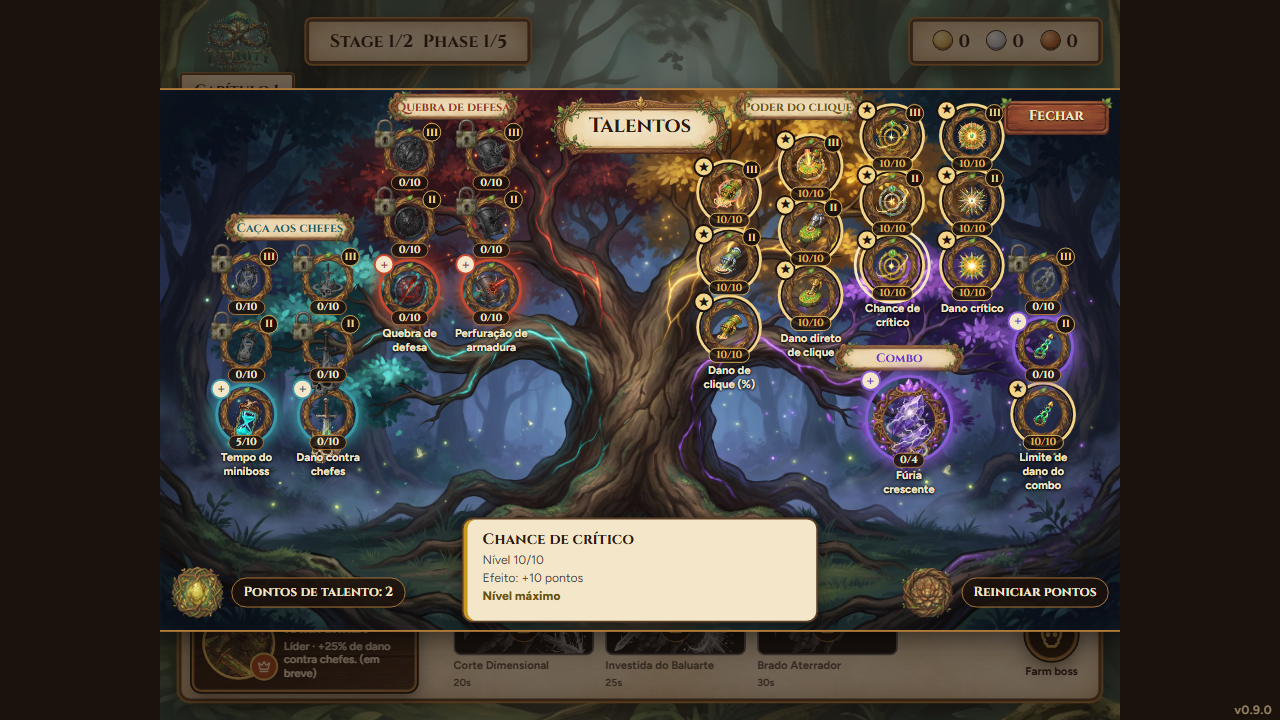
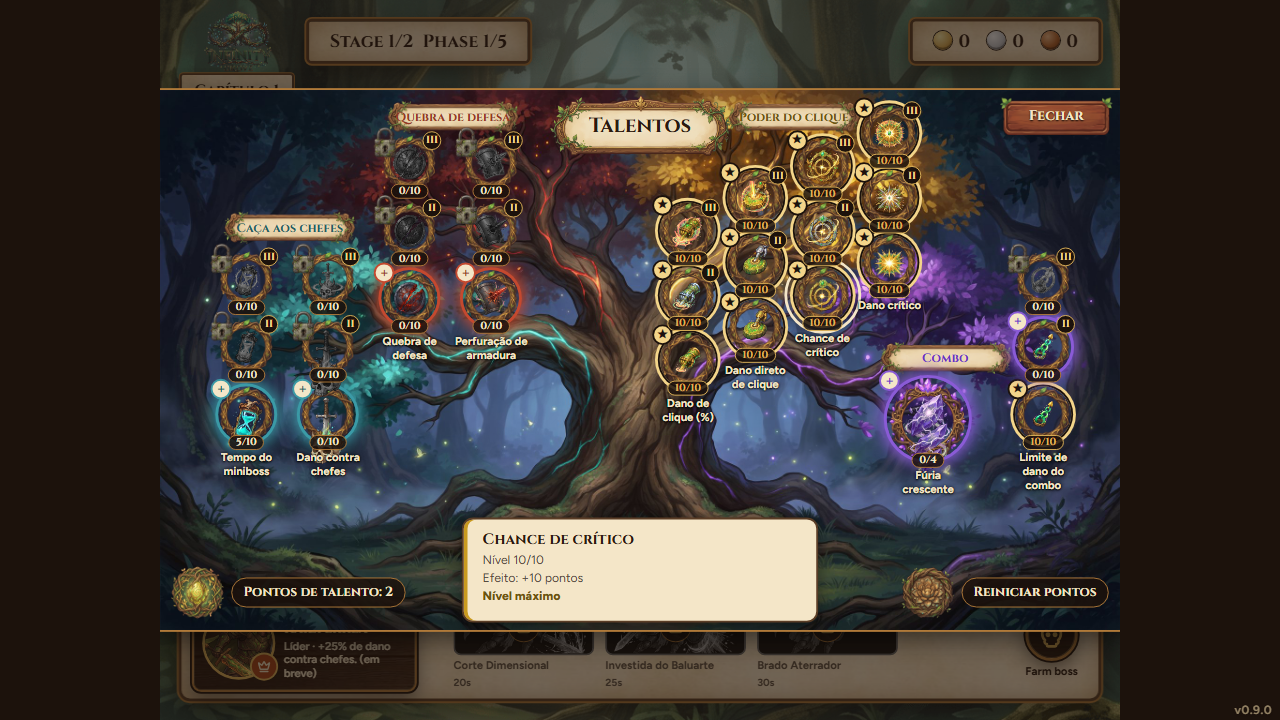
fix(game): apply the round 3 review findings to the talent tree layout
POWER columns move onto the gold foliage at x 55, 62, 69 and 76 (the
review asked for 56, 62, 68 and 74: at 6 % spacing a grade 1 caption of
80 px touches the next column's node, so the spacing is 7 %), grade 1 at
y 50, 44, 38 and 32 with a step of 12, so no grade 3 node reaches Fechar.
Banners: POWER (66, 5), BREAK y 5 (its grade 1 row drops to 38.5 to keep
the grade 3 nodes under it), COMBO (81.8, 49.7) instead of x 85, which
would cover the COMBO column's grade 2 node. Fúria crescente at x 80.

Re-pinned: talentTreeLayout.test.js (rows, columns, banners, Fúria; new
checks for caption-node, caption-caption, Fechar clearance and banners),
talentsView.test.js (CLICK_DAMAGE, COMBO_FURY, POWER banner and three
revealTalent values, the keep-scroll case now at scroll 700, 400),
e2e "draws 28 nodes" (CLICK_DAMAGE at 563.2 x 288 px) and the e2e phone
"keeps the scroll" test (scroll 700, 400). Regenerates the 11-real-art
shots. Adds T32.

Changed region(s): [[0.5, 0.1222, 0.8125, 0.7028], [0.2812, 0.1222, 0.4375, 0.5194]]

diff --git a/game/src/adapters/phaser/views/talentTreeLayout.test.js b/game/src/adapters/phaser/views/talentTreeLayout.test.js
@@ -13,7 +13,7 @@ describe('NODE_POSITIONS', () => {
         expect(IDS).toHaveLength(28);
     });
 
-    it('stacks each chain in one column, grade 1 lowest, a grade every 12.5 % of the height (12 % in the last two POWER columns)', () => {
+    it('stacks each chain in one column, grade 1 lowest, a grade every 12.5 % of the height (12 % in the four POWER columns, a staircase of grade 1 at 50, 44, 38 and 32)', () => {
         GRADED.forEach((id) => {
             expect(NODE_POSITIONS[`${id}_G2`].x).toBe(NODE_POSITIONS[id].x);
             expect(NODE_POSITIONS[`${id}_G3`].x).toBe(NODE_POSITIONS[id].x);
@@ -23,24 +23,24 @@ describe('NODE_POSITIONS', () => {
 
         expect(rows('MINIBOSS_TIME')).toEqual([ 60, 47.5, 35 ]);
         expect(rows('BOSS_DAMAGE')).toEqual([ 60, 47.5, 35 ]);
-        expect(rows('PHYSICAL_BREAK')).toEqual([ 37, 24.5, 12 ]);
-        expect(rows('ARMOR_PIERCE')).toEqual([ 37, 24.5, 12 ]);
-        expect(rows('CLICK_DAMAGE')).toEqual([ 44, 31.5, 19 ]);
-        expect(rows('CLICK_FLAT_DAMAGE')).toEqual([ 38, 26, 14 ]);
-        expect(rows('CRIT_CHANCE')).toEqual([ 32.5, 20.5, 8.5 ]);
-        expect(rows('CRIT_DAMAGE')).toEqual([ 32.5, 20.5, 8.5 ]);
+        expect(rows('PHYSICAL_BREAK')).toEqual([ 38.5, 26, 13.5 ]);
+        expect(rows('ARMOR_PIERCE')).toEqual([ 38.5, 26, 13.5 ]);
+        expect(rows('CLICK_DAMAGE')).toEqual([ 50, 38, 26 ]);
+        expect(rows('CLICK_FLAT_DAMAGE')).toEqual([ 44, 32, 20 ]);
+        expect(rows('CRIT_CHANCE')).toEqual([ 38, 26, 14 ]);
+        expect(rows('CRIT_DAMAGE')).toEqual([ 32, 20, 8 ]);
         expect(rows('COMBO')).toEqual([ 60, 47.5, 35 ]);
     });
 
-    it('puts every branch over its own painted foliage: columns x 9 and 17.5 (TIME), 26 and 34.5 (BREAK), 59.3 to 84.6 (POWER), 92 (COMBO)', () => {
+    it('puts every branch over its own painted foliage: columns x 9 and 17.5 (TIME), 26 and 34.5 (BREAK), 55 to 76 (POWER), 92 (COMBO)', () => {
         expect([ 'MINIBOSS_TIME', 'BOSS_DAMAGE' ].map((id) => NODE_POSITIONS[id].x)).toEqual([ 9, 17.5 ]);
         expect([ 'PHYSICAL_BREAK', 'ARMOR_PIERCE' ].map((id) => NODE_POSITIONS[id].x)).toEqual([ 26, 34.5 ]);
-        expect([ 'CLICK_DAMAGE', 'CLICK_FLAT_DAMAGE', 'CRIT_CHANCE', 'CRIT_DAMAGE' ].map((id) => NODE_POSITIONS[id].x)).toEqual([ 59.3, 67.8, 76.3, 84.6 ]);
+        expect([ 'CLICK_DAMAGE', 'CLICK_FLAT_DAMAGE', 'CRIT_CHANCE', 'CRIT_DAMAGE' ].map((id) => NODE_POSITIONS[id].x)).toEqual([ 55, 62, 69, 76 ]);
         expect(NODE_POSITIONS.COMBO.x).toBe(92);
     });
 
-    it('puts Fúria crescente on the violet foliage at (78, 61) and marks it large', () => {
-        expect(NODE_POSITIONS.COMBO_FURY).toEqual({ x: 78, y: 61 });
+    it('puts Fúria crescente on the violet foliage at (80, 61) and marks it large', () => {
+        expect(NODE_POSITIONS.COMBO_FURY).toEqual({ x: 80, y: 61 });
         expect(LARGE_NODES).toEqual([ 'COMBO_FURY' ]);
     });
 
@@ -48,7 +48,7 @@ describe('NODE_POSITIONS', () => {
         nodes.forEach(([ , { x, y } ]) => {
             expect(x).toBeGreaterThanOrEqual(5);
             expect(x).toBeLessThanOrEqual(95);
-            expect(y).toBeGreaterThanOrEqual(8.5);
+            expect(y).toBeGreaterThanOrEqual(8);
             expect(y).toBeLessThanOrEqual(61);
         });
 
@@ -78,6 +78,45 @@ describe('NODE_POSITIONS', () => {
         expect(touching).toEqual([]);
     });
 
+    it('keeps every grade 1 caption (80 px wide, two lines of 15 px, three for Limite de dano do combo) off every other node and caption, and every node 12 px from Fechar', () => {
+        const px = ({ x, y }) => ({ x: x / 100 * TREE_SIZE.width, y: y / 100 * TREE_SIZE.height });
+        const around = ([ id, position ], half) => ({ id, left: px(position).x - half, right: px(position).x + half, top: px(position).y - half, bottom: px(position).y + half });
+        const hit = (a, b) => a.left < b.right && b.left < a.right && a.top < b.bottom && b.top < a.bottom;
+        const half = (id) => (LARGE_NODES.includes(id) ? LARGE_NODE_HALF : NODE_HALF);
+        const boxes = nodes.map((node) => around(node, half(node[0])));
+        const captions = nodes.filter(([ id ]) => !/_G[23]$/.test(id)).map(([ id, position ]) => {
+            const centre = px(position);
+
+            return { id, left: centre.x - 40, right: centre.x + 40, top: centre.y + half(id) + 9, bottom: centre.y + half(id) + 9 + (id === 'COMBO' ? 45 : 30) };
+        });
+        const fechar = { left: 0.88 * TREE_SIZE.width - 12, right: TREE_SIZE.width, top: 0, bottom: 46 + 12 };
+
+        expect(captions.flatMap((caption) => boxes.filter((box) => box.id !== caption.id && hit(caption, box)).map((box) => `${caption.id} over ${box.id}`))).toEqual([]);
+        expect(captions.flatMap((a, i) => captions.slice(i + 1).filter((b) => hit(a, b)).map((b) => `${a.id} over ${b.id}`))).toEqual([]);
+        expect(boxes.filter((box) => hit(box, fechar)).map(({ id }) => id)).toEqual([]);
+    });
+
+    it('keeps the four banners (140 x 34 px) off every node, every caption and the plaque, and inside the board', () => {
+        const banners = Object.entries(BANNER_POSITIONS).map(([ id, { x, y } ]) => ({
+            id, left: x / 100 * TREE_SIZE.width - 70, right: x / 100 * TREE_SIZE.width + 70, top: y / 100 * TREE_SIZE.height - 17, bottom: y / 100 * TREE_SIZE.height + 17
+        }));
+        const hit = (a, b) => a.left < b.right && b.left < a.right && a.top < b.bottom && b.top < a.bottom;
+        const plaque = { left: 0.41 * TREE_SIZE.width, right: 0.59 * TREE_SIZE.width, top: 0, bottom: 0.13 * TREE_SIZE.height };
+        const boxes = nodes.map(([ id, { x, y } ]) => {
+            const half = LARGE_NODES.includes(id) ? LARGE_NODE_HALF : NODE_HALF;
+            const [ cx, cy ] = [ x / 100 * TREE_SIZE.width, y / 100 * TREE_SIZE.height ];
+
+            return { id, left: cx - half, right: cx + half, top: cy - half, bottom: cy + half, caption: { left: cx - 40, right: cx + 40, top: cy + half + 9, bottom: cy + half + 54 } };
+        });
+
+        banners.forEach((banner) => {
+            expect(banner.left).toBeGreaterThanOrEqual(0);
+            expect(banner.right).toBeLessThanOrEqual(TREE_SIZE.width);
+            expect(hit(banner, plaque)).toBe(false);
+            expect(boxes.filter((box) => hit(banner, box) || (!/_G[23]$/.test(box.id) && hit(banner, box.caption))).map(({ id }) => `${banner.id} over ${id}`)).toEqual([]);
+        });
+    });
+
     it('keeps the nodes of one row at least 8 % apart (a caption is 80 px, 7.8 %)', () => {
         nodes.forEach(([ idA, a ]) => nodes.forEach(([ idB, b ]) => {
             if (idA !== idB && a.y === b.y)
@@ -92,7 +131,7 @@ describe('banners, glows and veins', () => {
     it('places one banner per branch and one glow per branch', () => {
         expect(Object.keys(BANNER_POSITIONS)).toEqual([ 'TIME', 'BREAK', 'POWER', 'COMBO' ]);
         expect(Object.keys(BRANCH_GLOWS)).toEqual([ 'TIME', 'BREAK', 'POWER', 'COMBO' ]);
-        expect(BANNER_POSITIONS).toEqual({ TIME: { x: 13.5, y: 25.5 }, BREAK: { x: 30.5, y: 3.2 }, POWER: { x: 66.4, y: 3.2 }, COMBO: { x: 77, y: 49.7 } });
+        expect(BANNER_POSITIONS).toEqual({ TIME: { x: 13.5, y: 25.5 }, BREAK: { x: 30.5, y: 5 }, POWER: { x: 66, y: 5 }, COMBO: { x: 81.8, y: 49.7 } });
         expect(BRANCH_GLOWS).toEqual({
             TIME: { x: 25, y: 50, rx: 22, ry: 24 },
             BREAK: { x: 34, y: 22, rx: 18, ry: 25 },
@@ -110,6 +149,6 @@ describe('banners, glows and veins', () => {
         const combo = VEINS.at(-1);
 
         expect(combo).toHaveLength(5);
-        expect(combo[1]).toEqual({ x: 78, y: 61 });
+        expect(combo[1]).toEqual({ x: 80, y: 61 });
     });
 });

diff --git a/game/src/adapters/phaser/views/talentsView.test.js b/game/src/adapters/phaser/views/talentsView.test.js
@@ -62,8 +62,8 @@ describe('the nodes', () => {
     it('centres each node on its map coordinates', () => {
         const screen = show();
 
-        expect([ find(screen, 'talent-CLICK_DAMAGE').style.left, find(screen, 'talent-CLICK_DAMAGE').style.top ]).toEqual([ '59.3%', '44%' ]);
-        expect([ find(screen, 'talent-COMBO_FURY').style.left, find(screen, 'talent-COMBO_FURY').style.top ]).toEqual([ '78%', '61%' ]);
+        expect([ find(screen, 'talent-CLICK_DAMAGE').style.left, find(screen, 'talent-CLICK_DAMAGE').style.top ]).toEqual([ '55%', '50%' ]);
+        expect([ find(screen, 'talent-COMBO_FURY').style.left, find(screen, 'talent-COMBO_FURY').style.top ]).toEqual([ '80%', '61%' ]);
         expect([ find(screen, 'talent-MINIBOSS_TIME').style.left, find(screen, 'talent-MINIBOSS_TIME').style.top ]).toEqual([ '9%', '60%' ]);
     });
 
@@ -228,7 +228,7 @@ describe('the board', () => {
         const screen = show();
 
         expect([ ...screen.querySelectorAll('.talent-branch-title') ].map((node) => node.textContent)).toEqual([ 'Caça aos chefes', 'Quebra de defesa', 'Poder do clique', 'Combo' ]);
-        expect([ find(screen, 'talent-branch-POWER').style.left, find(screen, 'talent-branch-POWER').style.top ]).toEqual([ '66.4%', '3.2%' ]);
+        expect([ find(screen, 'talent-branch-POWER').style.left, find(screen, 'talent-branch-POWER').style.top ]).toEqual([ '66%', '5%' ]);
     });
 
     it('gives each lit layer its ellipse and its opacity', () => {
@@ -363,8 +363,8 @@ describe('revealTalent', () => {
 
         revealTalent(screen, 'COMBO_FURY');
 
-        //  Its centre (78 %, 61 %) is at (1597.44, 702.72) of the board: the right edge keeps 88 + 12 px, the bottom keeps 88 px of node and 108 px of caption above the card
-        expect(scroll.scrollLeft).toBeCloseTo(1597.44 - (1024 - 88 - 12), 5);
+        //  Its centre (80 %, 61 %) is at (1638.4, 702.72) of the board: the right edge keeps 88 + 12 px, the bottom keeps 88 px of node and 108 px of caption above the card
+        expect(scroll.scrollLeft).toBeCloseTo(1638.4 - (1024 - 88 - 12), 5);
         expect(scroll.scrollTop).toBeCloseTo(702.72 - (576 - 136 - 88 - 108), 5);
     });
 
@@ -373,9 +373,9 @@ describe('revealTalent', () => {
 
         revealTalent(screen, 'CLICK_DAMAGE_G3');
 
-        //  (59.3 %, 19 %) is at (1214.464, 218.88): 76 + 60 px under the top edge
+        //  (55 %, 26 %) is at (1126.4, 299.52): 76 + 60 px under the top edge
         expect(scroll.scrollLeft).toBe(512);
-        expect(scroll.scrollTop).toBeCloseTo(218.88 - (76 + 60), 5);
+        expect(scroll.scrollTop).toBeCloseTo(299.52 - (76 + 60), 5);
 
         const low = phone(0, 0);
 
@@ -387,11 +387,11 @@ describe('revealTalent', () => {
     });
 
     it('leaves the scroll alone when the node is already in the free area', () => {
-        const { screen, scroll } = phone(700, 288);
+        const { screen, scroll } = phone(700, 400);
 
         revealTalent(screen, 'CLICK_DAMAGE');
 
-        expect([ scroll.scrollLeft, scroll.scrollTop ]).toEqual([ 700, 288 ]);
+        expect([ scroll.scrollLeft, scroll.scrollTop ]).toEqual([ 700, 400 ]);
     });
 
     it('does nothing on a board that does not scroll, for a talent without a node or without a screen', () => {

diff --git a/game/src/adapters/phaser/views/talentTreeLayout.js b/game/src/adapters/phaser/views/talentTreeLayout.js
@@ -3,12 +3,12 @@ export const TREE_SIZE = { width: 1024, height: 576 };
 
 export const TREE_IMAGE = 'assets/talent-tree-bg.jpg';
 
-//  Grade 1 lowest, one grade every 12.5 % of the height (12 % in the last POWER column, which has less crown above it): `rise` gives the three rows of a column from its grade 1 row
+//  Grade 1 lowest, one grade every 12.5 % of the height (12 % in the four POWER columns, a staircase that climbs to the right with the crown): `rise` gives the three rows of a column from its grade 1 row
 const rise = (grade1, step = 12.5) => ({ 1: grade1, 2: grade1 - step, 3: grade1 - 2 * step });
 const CHAINS = [
     [ 'MINIBOSS_TIME', 9, rise(60) ], [ 'BOSS_DAMAGE', 17.5, rise(60) ],
-    [ 'PHYSICAL_BREAK', 26, rise(37) ], [ 'ARMOR_PIERCE', 34.5, rise(37) ],
-    [ 'CLICK_DAMAGE', 59.3, rise(44) ], [ 'CLICK_FLAT_DAMAGE', 67.8, rise(38, 12) ], [ 'CRIT_CHANCE', 76.3, rise(32.5, 12) ], [ 'CRIT_DAMAGE', 84.6, rise(32.5, 12) ],
+    [ 'PHYSICAL_BREAK', 26, rise(38.5) ], [ 'ARMOR_PIERCE', 34.5, rise(38.5) ],
+    [ 'CLICK_DAMAGE', 55, rise(50, 12) ], [ 'CLICK_FLAT_DAMAGE', 62, rise(44, 12) ], [ 'CRIT_CHANCE', 69, rise(38, 12) ], [ 'CRIT_DAMAGE', 76, rise(32, 12) ],
     [ 'COMBO', 92, rise(60) ]
 ];
 
@@ -16,12 +16,12 @@ const CHAINS = [
 export const NODE_POSITIONS = Object.freeze({
     ...Object.fromEntries(CHAINS.flatMap(([ id, x, rows ]) =>
         [ 1, 2, 3 ].map((grade) => [ grade === 1 ? id : `${id}_G${grade}`, { x, y: rows[grade] } ]))),
-    COMBO_FURY: { x: 78, y: 61 }
+    COMBO_FURY: { x: 80, y: 61 }
 });
 
 export const LARGE_NODES = Object.freeze([ 'COMBO_FURY' ]);
 
-export const BANNER_POSITIONS = Object.freeze({ TIME: { x: 13.5, y: 25.5 }, BREAK: { x: 30.5, y: 3.2 }, POWER: { x: 66.4, y: 3.2 }, COMBO: { x: 77, y: 49.7 } });
+export const BANNER_POSITIONS = Object.freeze({ TIME: { x: 13.5, y: 25.5 }, BREAK: { x: 30.5, y: 5 }, POWER: { x: 66, y: 5 }, COMBO: { x: 81.8, y: 49.7 } });
 
 //  The ellipse of each branch's lit veins: centre (x, y) and radii (rx, ry), in percent
 export const BRANCH_GLOWS = Object.freeze({

diff --git a/game/e2e/talentTreeRework.spec.js b/game/e2e/talentTreeRework.spec.js
@@ -125,7 +125,7 @@ test.describe('Talentos tree: nodes', () => {
         expect((await size(page.getByTestId('talent-CLICK_DAMAGE')))[0]).toBe(60);
         expect((await size(page.getByTestId('talent-COMBO_FURY')))[0]).toBe(88);
 
-        //  CLICK_DAMAGE sits at 59.3 % x 1024 and 44 % x 576 of the board
+        //  CLICK_DAMAGE sits at 55 % x 1024 and 50 % x 576 of the board
         const centre = await page.getByTestId('talent-CLICK_DAMAGE').evaluate((node) =>
         {
             const tree = document.querySelector('[data-testid="talent-tree"]').getBoundingClientRect();
@@ -134,8 +134,8 @@ test.describe('Talentos tree: nodes', () => {
             return [ (box.x + box.width / 2 - tree.x) * (1024 / tree.width), (box.y + box.height / 2 - tree.y) * (576 / tree.height) ];
         });
 
-        expect(Math.abs(centre[0] - 607.2)).toBeLessThanOrEqual(1);
-        expect(Math.abs(centre[1] - 253.4)).toBeLessThanOrEqual(1);
+        expect(Math.abs(centre[0] - 563.2)).toBeLessThanOrEqual(1);
+        expect(Math.abs(centre[1] - 288)).toBeLessThanOrEqual(1);
     });
 
     test('captions grade 1 nodes and badges grades 2 and 3', async ({ page }) => {
@@ -511,12 +511,12 @@ test.describe('Talentos tree: phones and desktops', () => {
         expect(await read('scrollTop')).toBe(288);
 
         //  A node in view is selected: the scroll the player chose stays
-        await scroll.evaluate((node) => { node.scrollLeft = 700; });
+        await scroll.evaluate((node) => { node.scrollLeft = 700; node.scrollTop = 400; });
         await select(page, 'CLICK_DAMAGE');
 
         await expect(page.getByTestId('talent-detail-name')).toHaveText('Dano de clique (%)');
         expect(await read('scrollLeft')).toBe(700);
-        expect(await read('scrollTop')).toBe(288);
+        expect(await read('scrollTop')).toBe(400);
         expect((await page.getByTestId('talent-points').evaluate((node) => node.offsetLeft))).toBe(12);
         expect((await size(page.getByTestId('talent-detail')))[0]).toBe(380);
     });

diff --git a/.specs/features/talent-tree-rework/tasks.md b/.specs/features/talent-tree-rework/tasks.md
@@ -126,7 +126,7 @@ T25 → T26 → T27 → T28 → T29 → T30
 ### Phase 6d: art calibration (game-dev)
 
 ```
-T31
+T31 → T32
 ```
 
 ---
@@ -1922,6 +1922,28 @@ The painted board (`talent-tree-bg.jpg` and `talent-tree-bg-lit.jpg`, 2048 x 115
 
 ---
 
+#### T32: apply the round 3 findings of the UI review to the layout [x]
+
+**Owner**: game-dev
+**Goal**: The POWER nodes sit over the gold foliage in a regular staircase, the banners sit clear of nodes, captions, the plaque and the right edge, and no grade 3 node touches Fechar (TTR-20; ui-review round 3, findings 1 to 5).
+**Where**: `game/src/adapters/phaser/views/talentTreeLayout.js` (`CHAINS`, `COMBO_FURY`, `BANNER_POSITIONS`)
+**Also changes**: `talentTreeLayout.test.js`, `talentsView.test.js`, `game/e2e/talentTreeRework.spec.js` (re-pin the coordinates), the `11-real-art-*` shots
+**Read first**: `.specs/features/talent-tree-rework/ui-review.html` (round 3), `game/src/adapters/phaser/views/talentTreeLayout.js`
+**Depends on**: T31
+**Requirement**: TTR-20
+
+**What**: POWER columns at x 55, 62, 69 and 76 (the review asked for 56, 62, 68 and 74; a 6 % spacing makes a grade 1 caption of 80 px touch the next column's node, so the spacing is 7 %), grade 1 at y 50, 44, 38 and 32 with a step of 12; POWER banner (66, 5); Fúria crescente at x 80; COMBO banner (81.8, 49.7), clear of the COMBO column's grade 2 node (the review's x 85 would cover it); BREAK grade 1 at 38.5 and banner y 5.
+
+**Tests**: unit: rows, columns and banners re-pinned; new checks that no grade 1 caption touches another node or caption, no node is within 12 px of Fechar, and no banner touches a node, a caption, the plaque or the board edge
+**Gate**: `cd game && npm test`, `cd game && npm run build`, `cd game && npx playwright test e2e/talentTreeRework.spec.js`
+**Done when**:
+
+- [x] The `11-real-art` desktop and phone shots show the POWER columns on the gold foliage and no overlap, and the three gates are green.
+
+**Commit**: `fix(game): apply the round 3 review findings to the talent tree layout`
+
+---
+
 ## Validation Tables
 
 ### Task Granularity Check
@@ -1959,6 +1981,7 @@ The painted board (`talent-tree-bg.jpg` and `talent-tree-bg-lit.jpg`, 2048 x 115
 | T29 | 1 stylesheet rule | ✅ Granular |
 | T30 | 1 stylesheet rule | ✅ Granular |
 | T31 | 1 layout file (+ its re-pinned tests) | ⚠ Cohesive (the coordinates are one table, the tests pin it) |
+| T32 | 1 layout file (+ its re-pinned tests) | ⚠ Cohesive (same table as T31) |
 
 ### Diagram-Definition Cross-Check
 
@@ -1995,6 +2018,7 @@ The painted board (`talent-tree-bg.jpg` and `talent-tree-bg-lit.jpg`, 2048 x 115
 | T29 | T28 | T28 → T29 | ✅ Match |
 | T30 | T29 | T29 → T30 | ✅ Match |
 | T31 | None | (none) | ✅ Match |
+| T32 | T31 | T31 → T32 | ✅ Match |
 
 ### Test Co-location Validation
 
@@ -2031,3 +2055,4 @@ The painted board (`talent-tree-bg.jpg` and `talent-tree-bg-lit.jpg`, 2048 x 115
 | T30 | Stylesheet | e2e | e2e | ✅ OK |
 | T28 | Game view and scene | unit (jsdom) + e2e | unit + e2e | ✅ OK |
 | T31 | Game view layout | unit (jsdom) + e2e | unit + e2e | ✅ OK |
+| T32 | Game view layout | unit (jsdom) + e2e | unit + e2e | ✅ OK |
